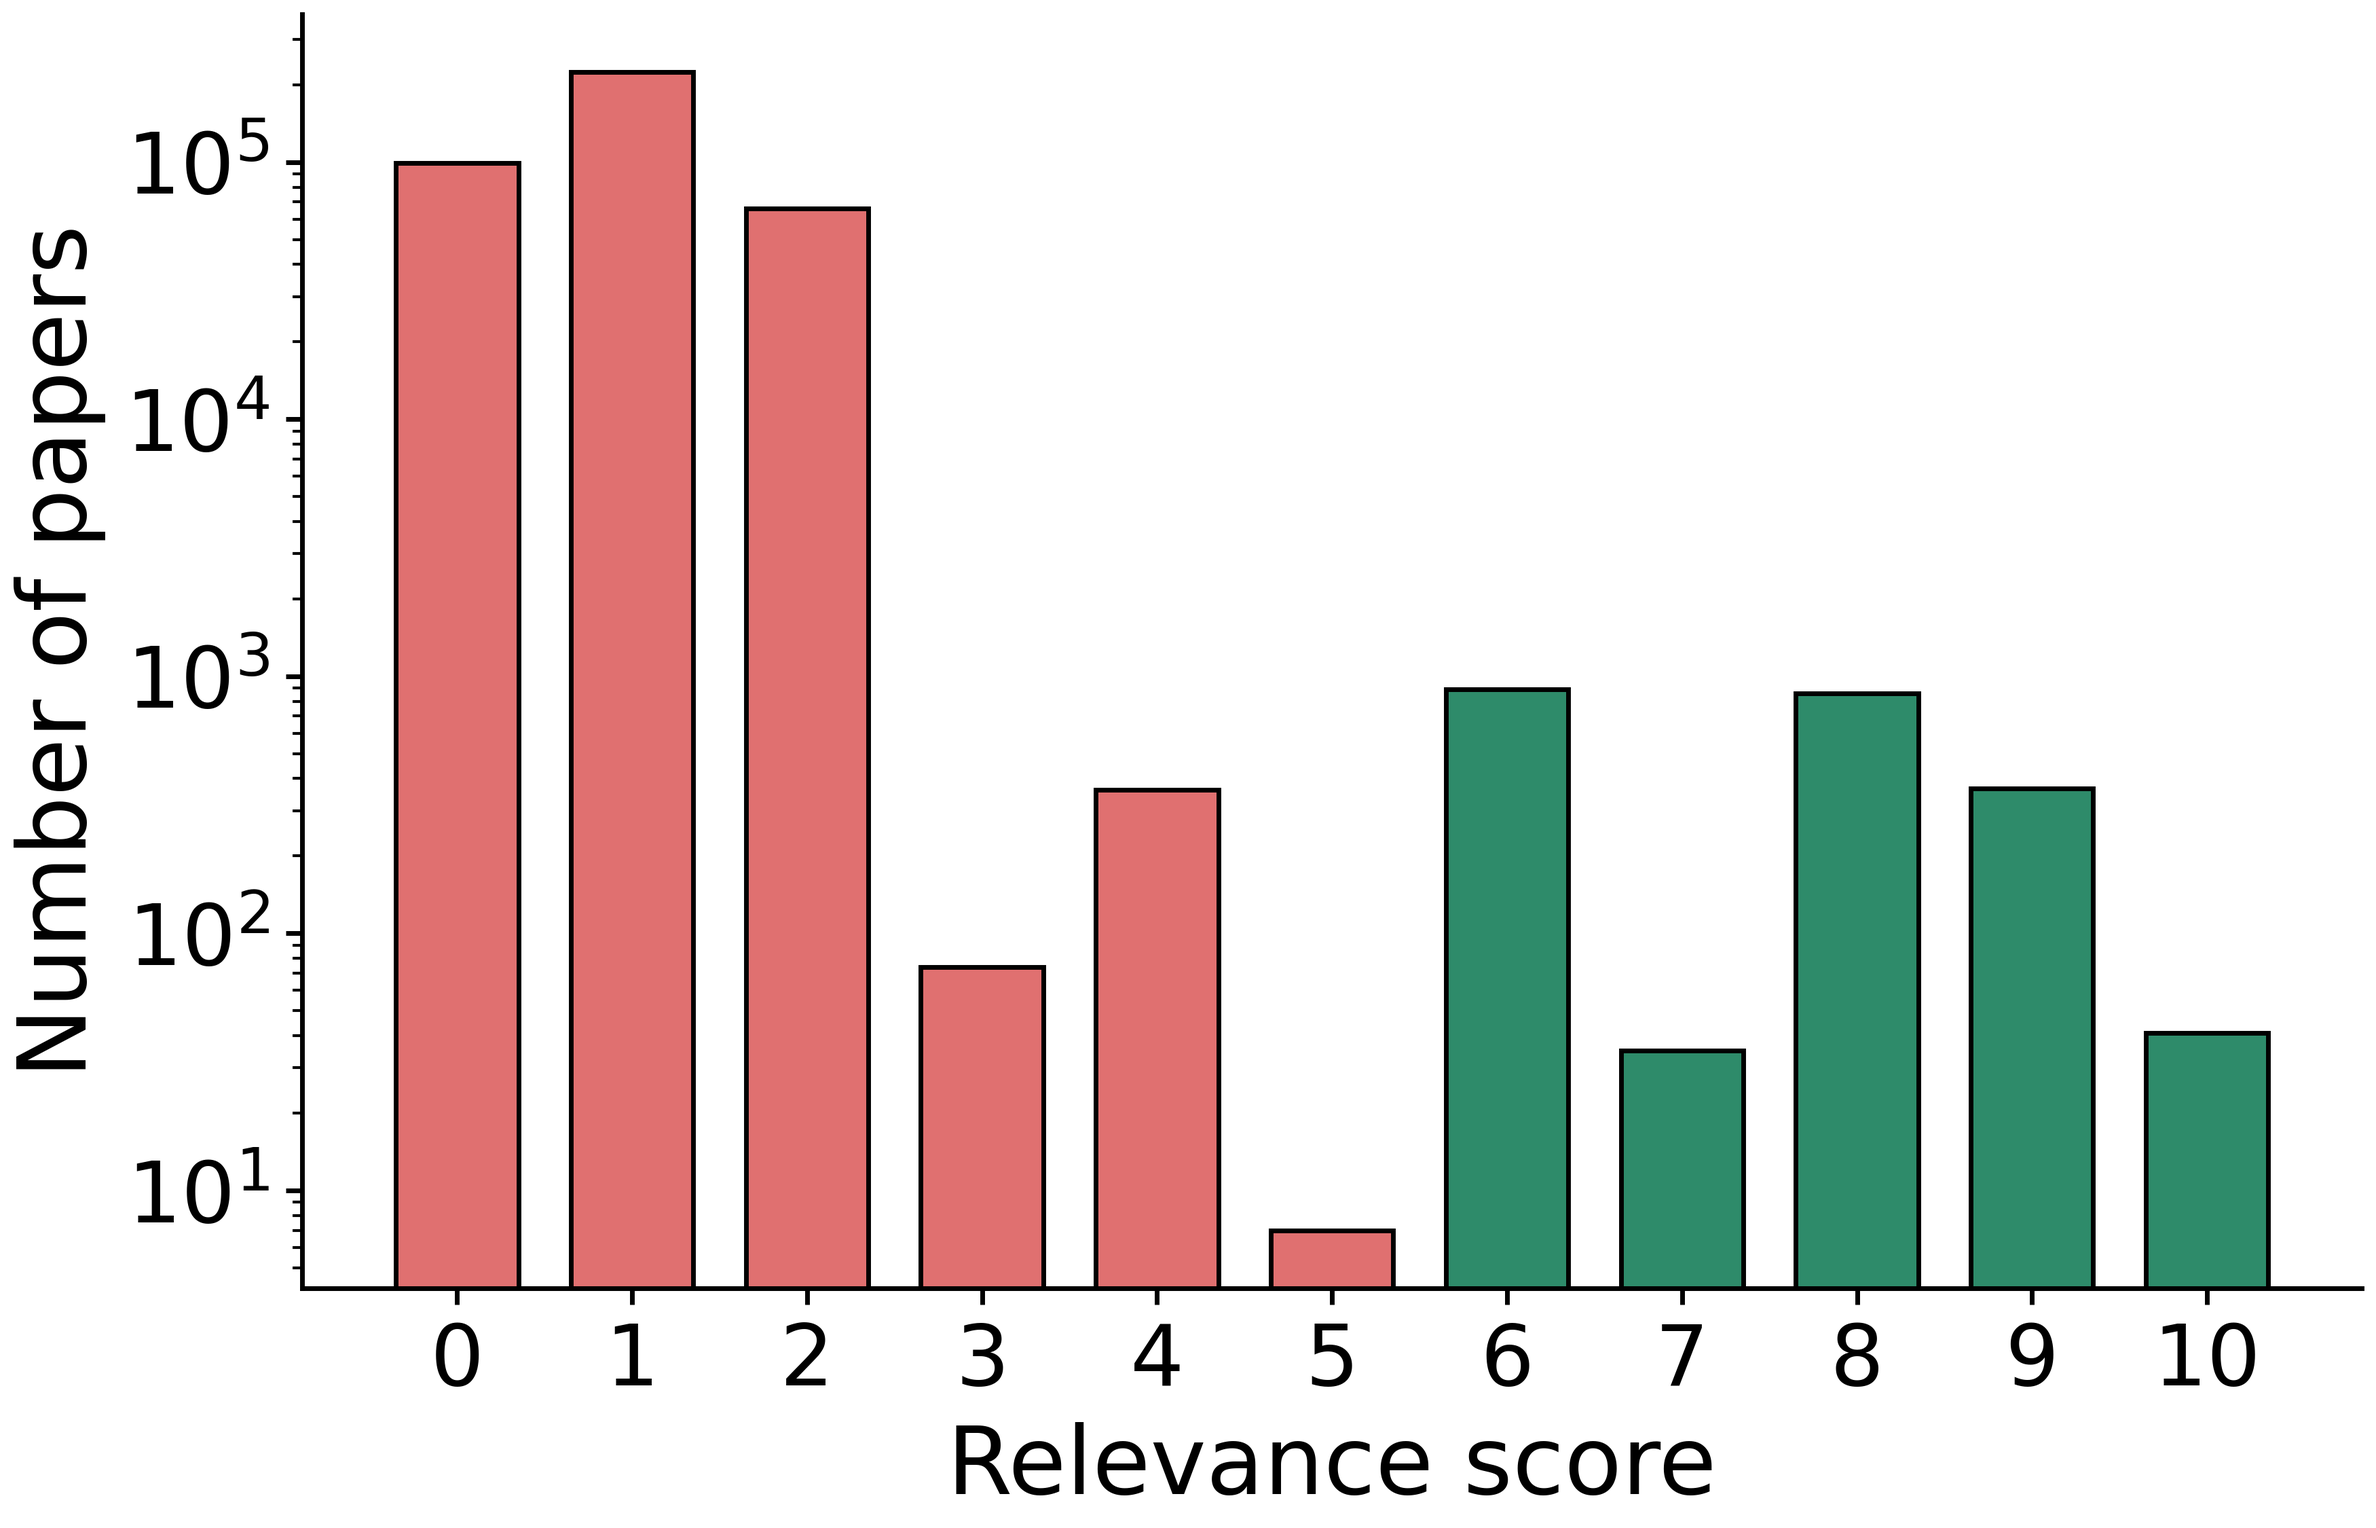
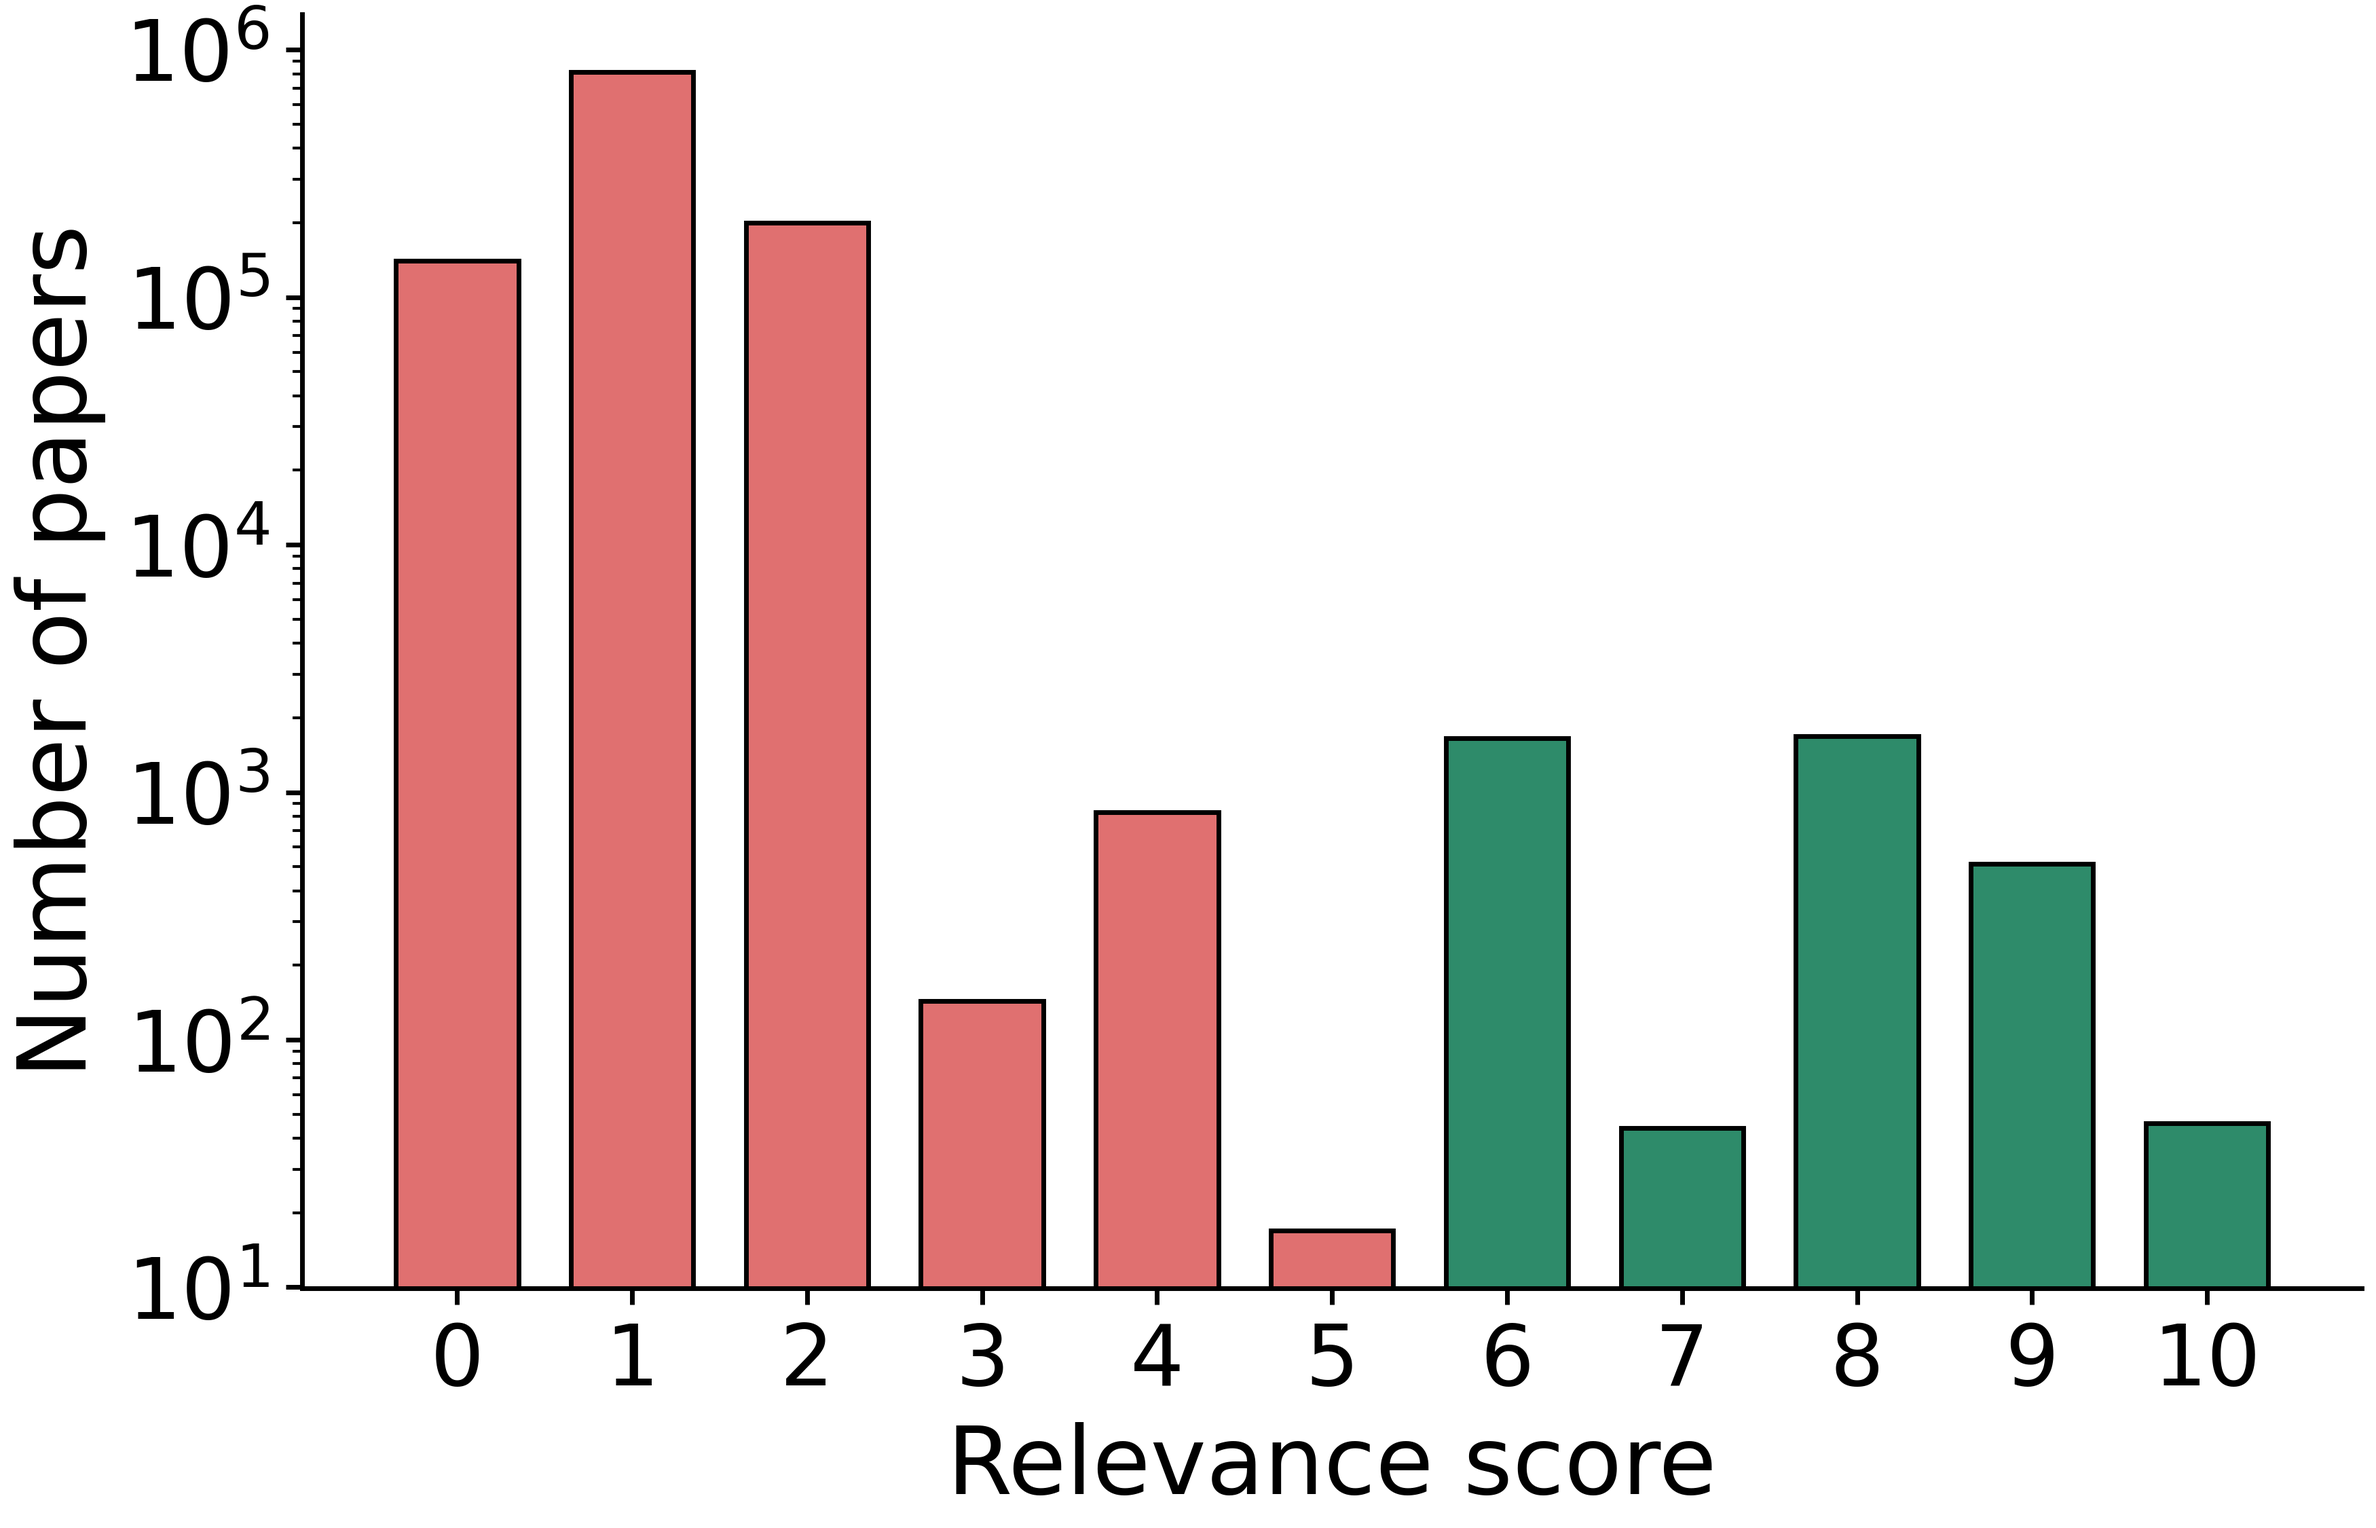
Make the reported numbers match the final pipeline outputs
All counts in the README now come from the final output files of each
step: 1,535,419 harvested records, 1,156,902 unique papers scored,
3,944 kept at score 6 or higher, 5,524 documents read for extraction,
and 22,230 compound mentions. The relevance-score chart is redrawn from
the scorer's final score distribution, and the 07-analysis README lists
the files the scripts actually produce.

Step 05 also stops crashing when a PDF-extracted title contains NUL or
other control characters: they are removed before writing the CSVs.

diff --git a/05-pubchem-resolver/main.py b/05-pubchem-resolver/main.py
@@ -7,6 +7,7 @@ import csv
 import json
 import logging
 import os
+import re
 import sys
 import time
 from typing import Dict, List
@@ -254,12 +255,21 @@ def _build_link_rows(mentions: List[dict], resolved_map: Dict[str, dict]) -> Lis
     return rows
 
 
+# Text extracted from PDFs can contain NUL and other control characters, which the
+# csv module refuses to write (it stops with "need to escape").
+_CONTROL_CHARS = re.compile(r"[\x00-\x08\x0b\x0c\x0e-\x1f\x7f]")
+
+
+def _csv_value(value):
+    return _CONTROL_CHARS.sub("", value) if isinstance(value, str) else value
+
+
 def _write_csv(path: str, rows: List[dict], fieldnames: List[str]):
     with open(path, "w", newline="", encoding="utf-8") as f:
         writer = csv.DictWriter(f, fieldnames=fieldnames)
         writer.writeheader()
         for row in rows:
-            writer.writerow(row)
+            writer.writerow({key: _csv_value(value) for key, value in row.items()})
 
 
 def main():

diff --git a/README.md b/README.md
@@ -13,24 +13,25 @@ Everything runs on open-weight models (Llama 3, Qwen, or any model served by
 
 | | |
 |---|---|
-| Records harvested from 7 literature APIs | 1.54 million |
-| Unique papers scored for relevance by the LLM (0–10) | **392,289** |
-| Papers kept as relevant (score ≥ 6) | 2,188 |
-| Papers read by the LLM for compound extraction | 5,524 (3,338 full texts, 2,186 abstracts) |
-| Antioxidant mentions extracted as structured JSON | 20,763 (9,125 unique names) |
-| Unique chemical structures after PubChem resolution | 556, including 172 phenolic and 34 aminic antioxidants |
-| Model used for the full runs | Llama 3 8B (4-bit) on NVIDIA L40S GPUs; also tested with Llama 3 70B and Qwen 3 30B |
+| Records harvested from 7 literature APIs | 1,535,419, deduplicated to 1,156,902 unique papers |
+| Papers scored for relevance by the LLM (0–10) | **1,156,902** (392,289 with an abstract, the rest by title only) |
+| Papers kept as relevant (score ≥ 6) | 3,944 |
+| Documents read by the LLM for compound extraction | 5,524: 3,338 full-text PDFs, plus 2,186 abstracts of relevant papers with no PDF |
+| Antioxidant mentions extracted as structured JSON | 22,230 from 4,180 documents (9,427 unique names) |
+| Unique chemical structures classified with RDKit | 556, including 172 phenolic and 34 aminic antioxidants |
+| Model used for the full runs | Llama 3 8B on NVIDIA L40S GPUs; also tested with Llama 3 70B and Qwen 3 30B |
 
 <p align="center">
   <img src="docs/relevance_score_distribution.png" width="560"
-       alt="Bar chart of LLM relevance scores from 0 to 10 for 392,289 papers on a log scale">
+       alt="Bar chart of LLM relevance scores from 0 to 10 for 1,156,902 papers on a log scale">
 </p>
 
-*LLM relevance scores for all 392,289 papers (log scale). The model was asked how closely each
-title and abstract relates to antioxidant additives for lubricants. Green bars (score ≥ 6, 2,188
-papers) were passed on to compound extraction; red bars were filtered out. Most of the corpus
-scores 0–2, which is the point of the step: a keyword search returns hundreds of thousands of
-papers, and the LLM narrows them to the few thousand worth reading.*
+*LLM relevance scores for all 1,156,902 papers (log scale). The model rated how closely each
+paper relates to antioxidant additives for lubricants, from its title and abstract (or the title
+alone when no abstract was available). Green bars (score ≥ 6, 3,944 papers) were passed on to
+compound extraction; red bars were filtered out. Over 99% of the corpus scores 0–2, which is the
+point of the step: a broad keyword search returns more than a million papers, and the LLM
+narrows them to the few thousand worth reading.*
 
 ### What this project shows
 
@@ -182,8 +183,8 @@ export from a reference manager.
 ## Data
 
 The repository contains code only. Paper PDFs and full texts belong to their publishers
-and are not redistributed, and the pipeline outputs (about 15 GB) are not included; the
-code regenerates them. The example abstract in `llm/demo.py` is from my own open-access
+and are not redistributed, and the pipeline outputs (several gigabytes) are not included;
+the code regenerates them. The example abstract in `llm/demo.py` is from my own open-access
 paper (CC BY 4.0).
 
 ## Author

diff --git a/07-analysis/README.md b/07-analysis/README.md
@@ -32,11 +32,13 @@ From `06-smiles-filter/output`:
 `make_smiles_space_plots.py`
 - `01_priority_type_counts.png`
 - `02_heavy_atom_distribution.png`
-- `03_pca_chemical_space.png`
+- `03_pca_chemical_space.png`, `04_tsne_chemical_space.png`, `05_umap_chemical_space.png` (UMAP needs `umap-learn`)
+- `06_paper_score_distribution.png`: relevance scores of the papers that have an abstract
 - `embedding_points.csv`
 - `plot_stats.json`
 
-The plotting stage now removes stale old figures before writing the new outputs, so legacy PCA, t-SNE, heatmap, and similarity-distribution figures are not kept around.
+`curate_aminic_antioxidants.py`
+- conservative review of the aminic candidates in the extraction output, written to `output/aminic_curation/`
 
 ## Run
 
